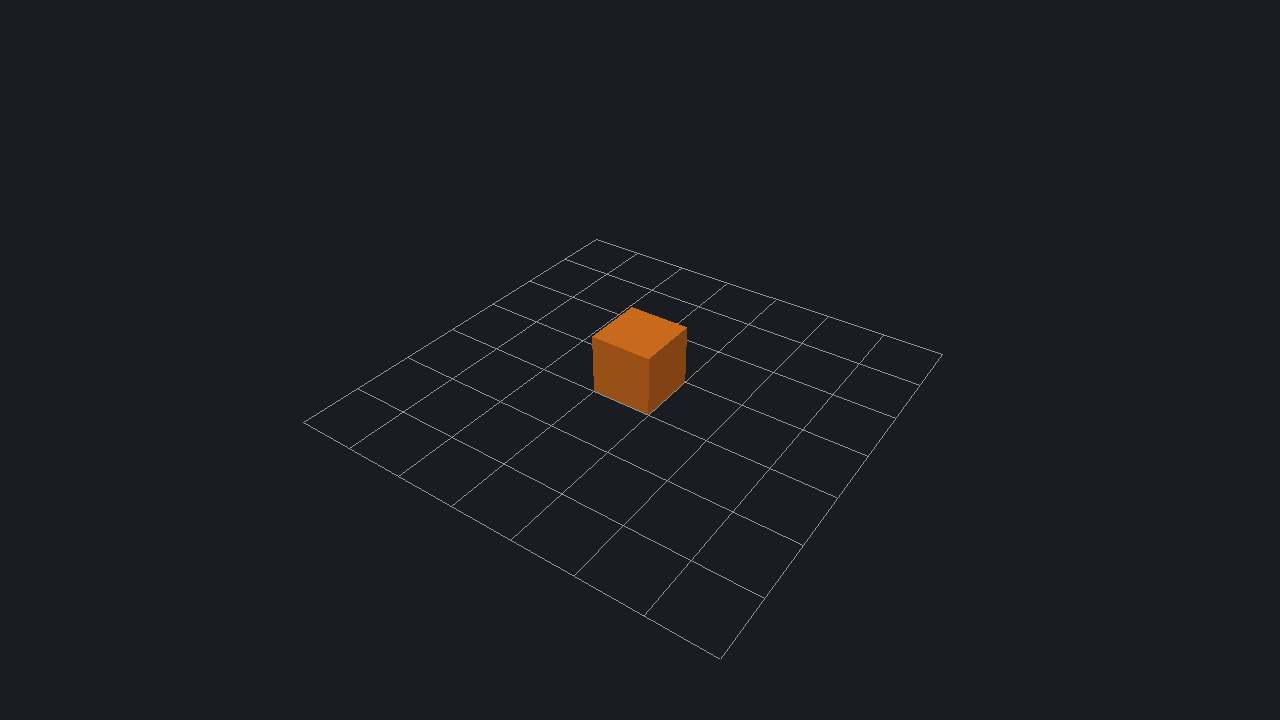
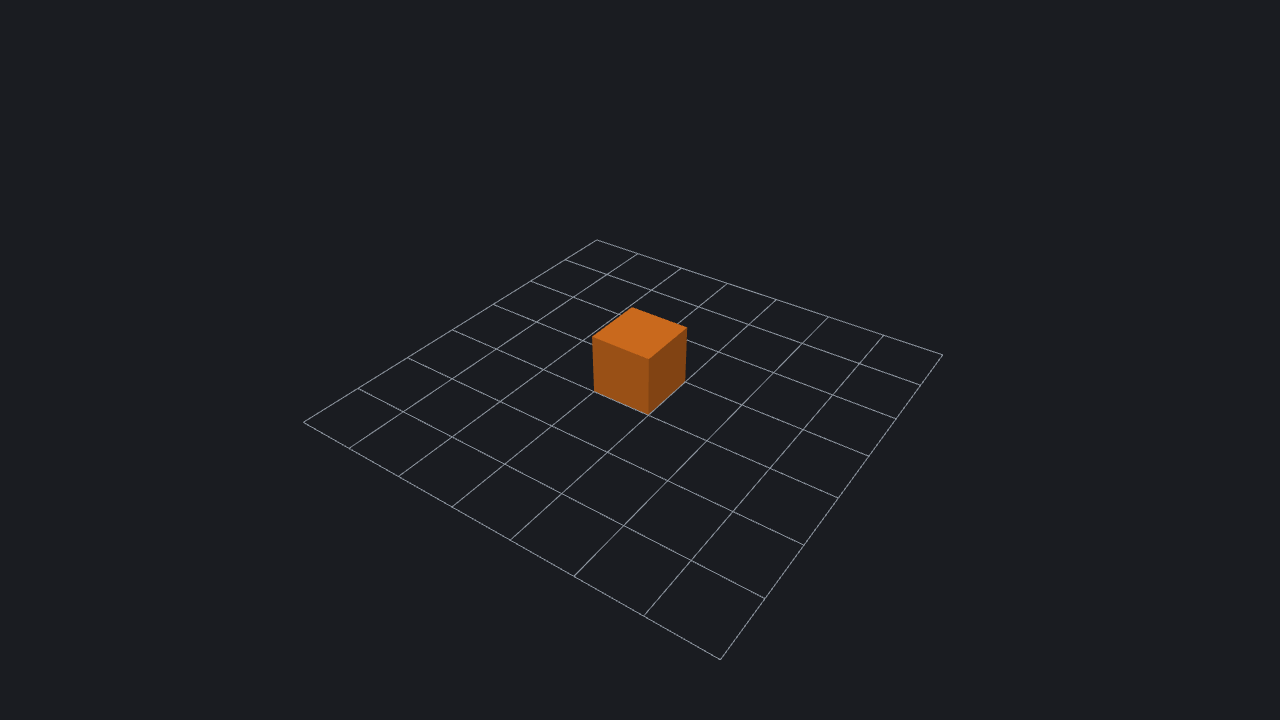
TEMPORARY: test run of the README's build instructions
Also in this commit, to stay: the artifact of a manual run is uploaded
unzipped, the README builds in parallel and states what the release binary
needs, and the screenshot is a frame from the runner (4x antialiasing).
The ci-tmp/ directory, the branch trigger and the TEMPORARY steps are still
to be removed.

diff --git a/README.md b/README.md
@@ -37,14 +37,14 @@ tar -xzf LegacyEngine-v0.1.0-linux-x86_64.tar.gz
 ./LegacyEngine-v0.1.0-linux-x86_64/LegacyEngine
 ```
 
-The binary needs a graphics driver with OpenGL 3.3 and a distribution at least as new as
-Ubuntu 24.04 (glibc 2.39), which is where it is built. SDL is linked into it, so there is nothing
-else to install.
+The binary is built on Ubuntu 24.04. It needs a graphics driver with OpenGL 3.3 and glibc 2.38 or
+newer, so it runs on Ubuntu 24.04 and Debian 13, for example, but not on Ubuntu 22.04. SDL is
+linked into it, so there is nothing else to install.
 
 ## Build
 
 You need a C++17 compiler, CMake 3.16 or newer, Git, and the development packages that SDL builds
-against. On Ubuntu:
+against. On Ubuntu and Debian:
 
 ```sh
 sudo apt-get install build-essential cmake git pkg-config \
@@ -61,7 +61,7 @@ Then:
 
 ```sh
 cmake -S . -B build
-cmake --build build
+cmake --build build --parallel 4
 ./build/LegacyEngine
 ```
 
